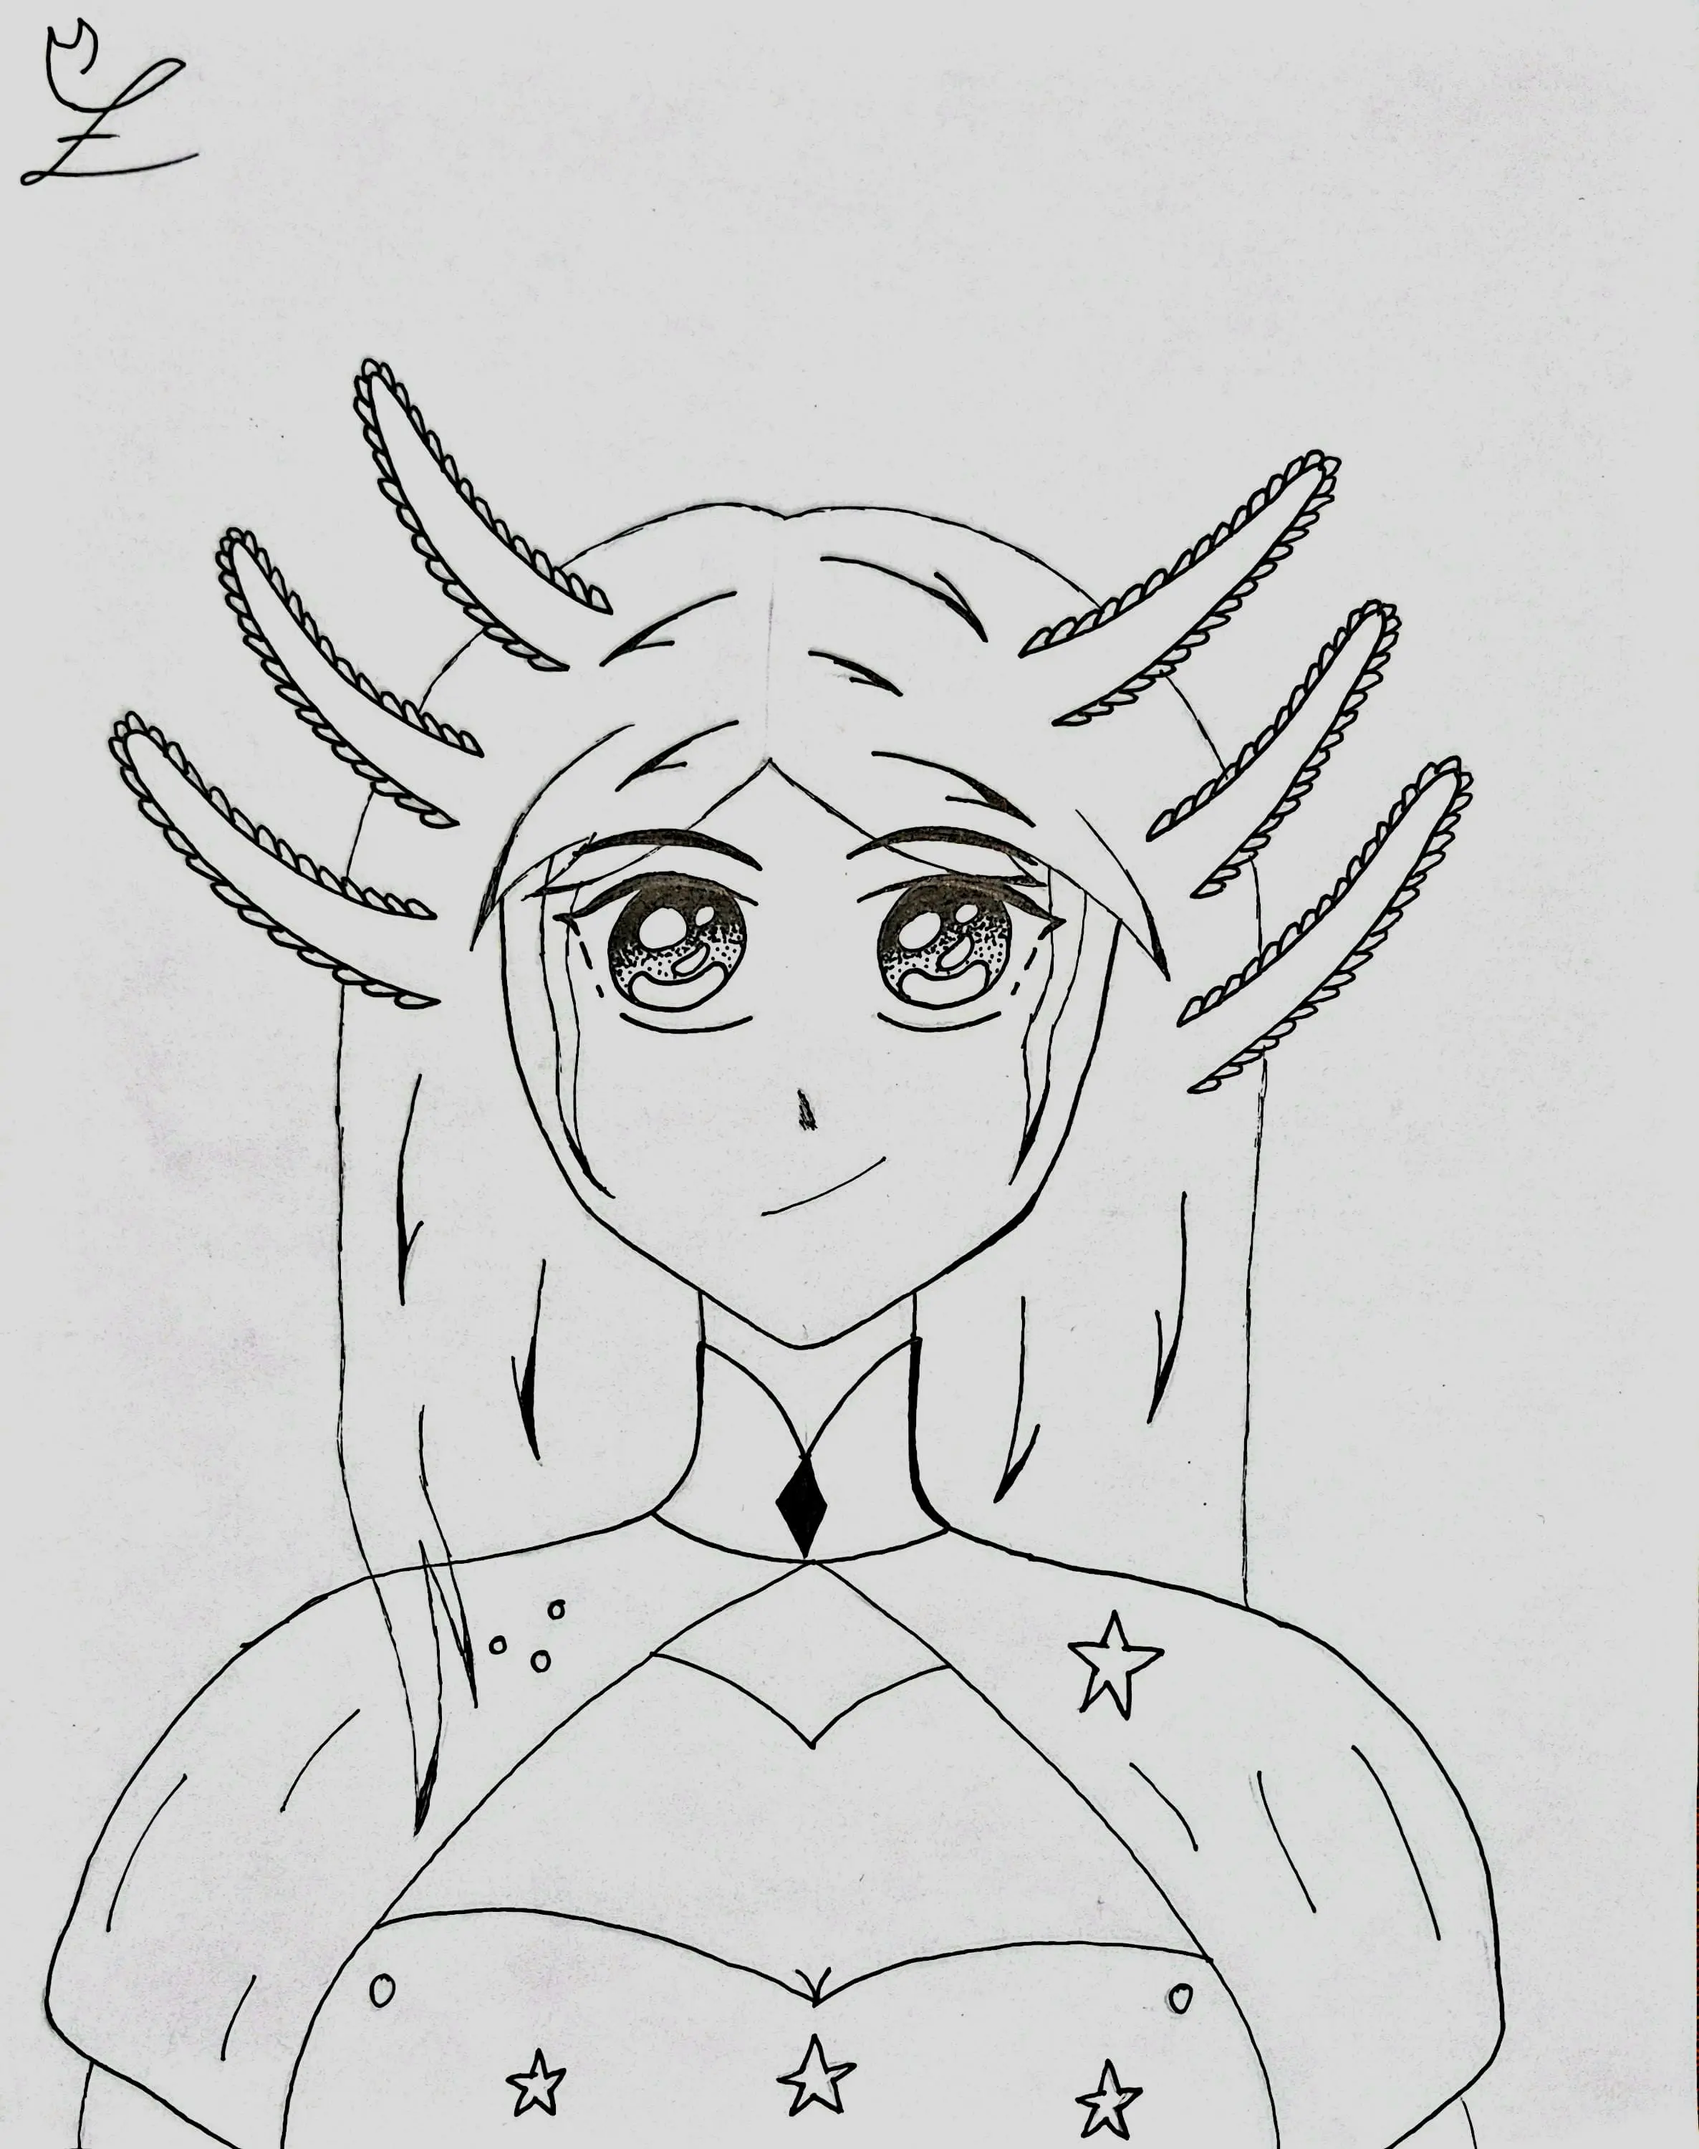
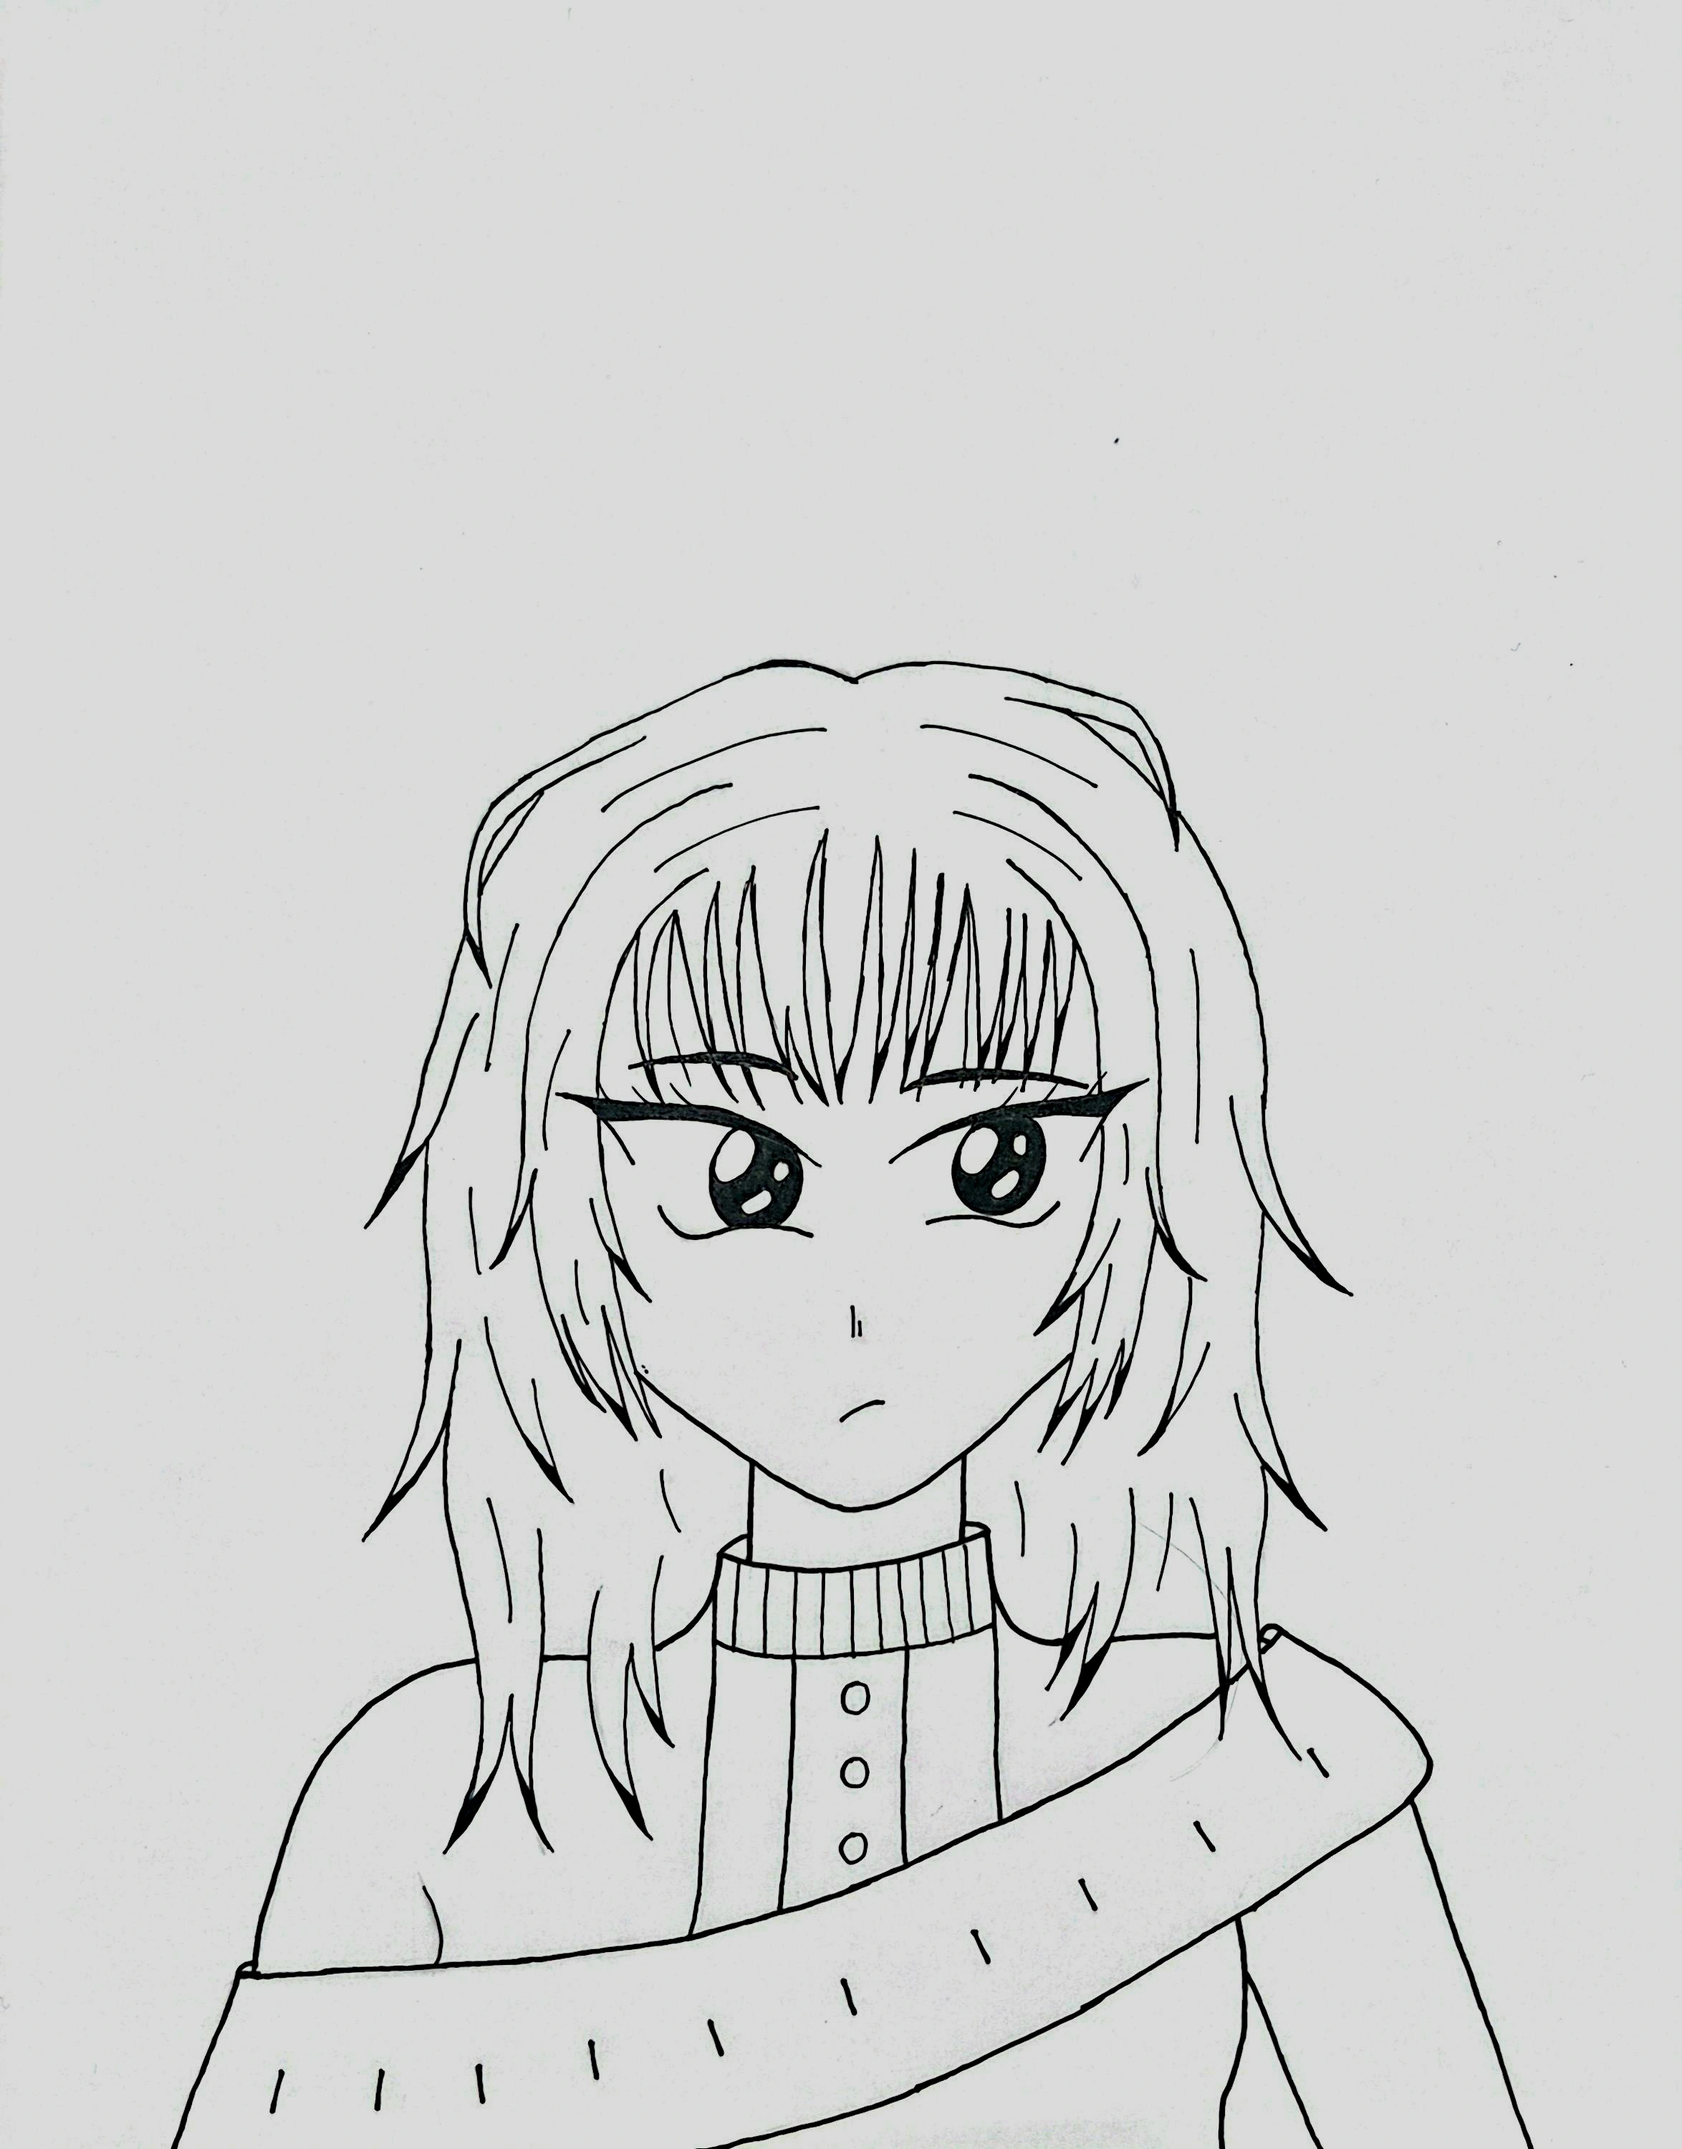
feat: implement interactive sketchbook page and add new assets for external links

diff --git a/lib/pages/sketch_book_page.dart b/lib/pages/sketch_book_page.dart
@@ -1,6 +1,7 @@
 import 'package:flutter/material.dart';
 import 'package:flutter/services.dart';
 import 'package:flutter/foundation.dart';
+import 'package:web/web.dart' as web;
 import 'package:portafolio_erick_cua/widgets/sketch_section_page.dart';
 import 'package:portafolio_erick_cua/widgets/store_buttons.dart';
 import 'package:book_page_flip/book_page_flip.dart';
@@ -43,6 +44,8 @@ class _SketchBookPageState extends State<SketchBookPage> {
     'assets/calet.png',
     'assets/google.webp',
     'assets/apple.webp',
+    'assets/instagram.webp',
+    'assets/cat.webp',
   ];
 
   bool _imagesReady = false;
@@ -94,7 +97,7 @@ class _SketchBookPageState extends State<SketchBookPage> {
 
   Widget _buildCaletSection() {
     return SketchSectionPage(
-      data: const SketchPageData(),
+      data: const SketchPageData(title: 'Aplicaciones Moviles'),
       children: [
         Image.asset(
           'assets/calet.png',
@@ -114,6 +117,162 @@ class _SketchBookPageState extends State<SketchBookPage> {
         const SizedBox(height: 24),
         if (kIsWeb) const StoreButtons(),
       ],
+    );
+  }
+
+  void _showInfoModal(BuildContext context) {
+    showModalBottomSheet(
+      context: context,
+      isScrollControlled: true,
+      backgroundColor: const Color(0xFF49403E),
+      shape: const RoundedRectangleBorder(
+        borderRadius: BorderRadius.vertical(top: Radius.circular(20)),
+      ),
+      builder: (context) {
+        return DraggableScrollableSheet(
+          initialChildSize: 0.85,
+          minChildSize: 0.5,
+          maxChildSize: 0.95,
+          expand: false,
+          builder: (context, scrollController) {
+            return SingleChildScrollView(
+              controller: scrollController,
+              padding: const EdgeInsets.symmetric(horizontal: 24, vertical: 28),
+              child: Column(
+                crossAxisAlignment: CrossAxisAlignment.center,
+                children: [
+                  Container(
+                    width: 40,
+                    height: 4,
+                    decoration: BoxDecoration(
+                      color: Colors.white24,
+                      borderRadius: BorderRadius.circular(2),
+                    ),
+                  ),
+                  const SizedBox(height: 24),
+                  Image.asset(
+                    'assets/calet.png',
+                    height: 64,
+                    filterQuality: FilterQuality.high,
+                  ),
+                  const SizedBox(height: 12),
+                  const Text(
+                    'Descarga Calet',
+                    style: TextStyle(
+                      color: Colors.white,
+                      fontSize: 18,
+                      fontWeight: FontWeight.w600,
+                    ),
+                  ),
+                  const SizedBox(height: 16),
+                  Row(
+                    mainAxisAlignment: MainAxisAlignment.center,
+                    children: [
+                      Listener(
+                        onPointerDown: (PointerDownEvent _) {
+                          web.window.open(
+                            'https://play.google.com/store/apps/details?id=com.gersonpm.calet&hl=es_BO&pli=1',
+                            '_blank',
+                          );
+                        },
+                        child: Image.asset(
+                          'assets/google.webp',
+                          height: 44,
+                          filterQuality: FilterQuality.high,
+                        ),
+                      ),
+                      const SizedBox(width: 16),
+                      Listener(
+                        onPointerDown: (PointerDownEvent _) {
+                          web.window.open(
+                            'https://apps.apple.com/us/app/calet/id6761416439',
+                            '_blank',
+                          );
+                        },
+                        child: Image.asset(
+                          'assets/apple.webp',
+                          height: 44,
+                          filterQuality: FilterQuality.high,
+                        ),
+                      ),
+                    ],
+                  ),
+                  const SizedBox(height: 28),
+                  Container(
+                    width: double.infinity,
+                    height: 1,
+                    color: Colors.white12,
+                  ),
+                  const SizedBox(height: 20),
+                  const Text(
+                    'Sígueme en Instagram',
+                    style: TextStyle(
+                      color: Colors.white70,
+                      fontSize: 14,
+                      fontWeight: FontWeight.w500,
+                    ),
+                  ),
+                  const SizedBox(height: 16),
+                  _buildInstagramLink(
+                    label: 'Cuenta artística',
+                    url:
+                        'https://www.instagram.com/nekink_19?utm_source=ig_web_button_share_sheet&igsh=ZDNlZDc0MzIxNw==&igsi=ZDNlZDc0MzIxNw==',
+                  ),
+                  const SizedBox(height: 10),
+                  _buildInstagramLink(
+                    label: 'Cuenta artística',
+                    url:
+                        'https://www.instagram.com/erickcua_19?igsh=MWxoczgzZmN3cml3OA==&igsi=MWxoczgzZmN3cml3OA==',
+                  ),
+                  const SizedBox(height: 32),
+                  Container(
+                    width: double.infinity,
+                    height: 1,
+                    color: Colors.white12,
+                  ),
+                  const SizedBox(height: 20),
+                  Image.asset(
+                    'assets/cat.webp',
+                    height: 36,
+                    filterQuality: FilterQuality.high,
+                  ),
+                  const SizedBox(height: 8),
+                  const Text(
+                    'Desarrollado por: Erick Cuá (ckncm)',
+                    style: TextStyle(color: Colors.white38, fontSize: 12),
+                  ),
+                  const SizedBox(height: 24),
+                ],
+              ),
+            );
+          },
+        );
+      },
+    );
+  }
+
+  Widget _buildInstagramLink({required String label, required String url}) {
+    return Listener(
+      onPointerDown: (PointerDownEvent _) {
+        web.window.open(url, '_blank');
+      },
+      child: Row(
+        mainAxisAlignment: MainAxisAlignment.center,
+        children: [
+          Image.asset(
+            'assets/instagram.webp',
+            height: 28,
+            filterQuality: FilterQuality.high,
+          ),
+          const SizedBox(width: 10),
+          Text(
+            label,
+            style: const TextStyle(color: Colors.white, fontSize: 14),
+          ),
+          const SizedBox(width: 6),
+          const Icon(Icons.open_in_new, color: Colors.white38, size: 14),
+        ],
+      ),
     );
   }
 
@@ -194,6 +353,26 @@ class _SketchBookPageState extends State<SketchBookPage> {
                   color: Colors.white,
                   fontSize: 13,
                   letterSpacing: 0.5,
+                ),
+              ),
+            ),
+            Positioned(
+              top: 12,
+              right: 16,
+              child: GestureDetector(
+                onTap: () => _showInfoModal(context),
+                child: Container(
+                  width: 36,
+                  height: 36,
+                  decoration: BoxDecoration(
+                    color: Colors.white24,
+                    shape: BoxShape.circle,
+                  ),
+                  child: const Icon(
+                    Icons.info_outline,
+                    color: Colors.white,
+                    size: 20,
+                  ),
                 ),
               ),
             ),

diff --git a/lib/widgets/sketch_page.dart b/lib/widgets/sketch_page.dart
@@ -38,7 +38,7 @@ class SketchPage extends StatelessWidget {
             ),
             SizedBox(height: 8),
             Text(
-              'Erick Cua',
+              'Erick Natanael Cuá Morales',
               style: TextStyle(
                 fontSize: 16,
                 color: Colors.white54,
